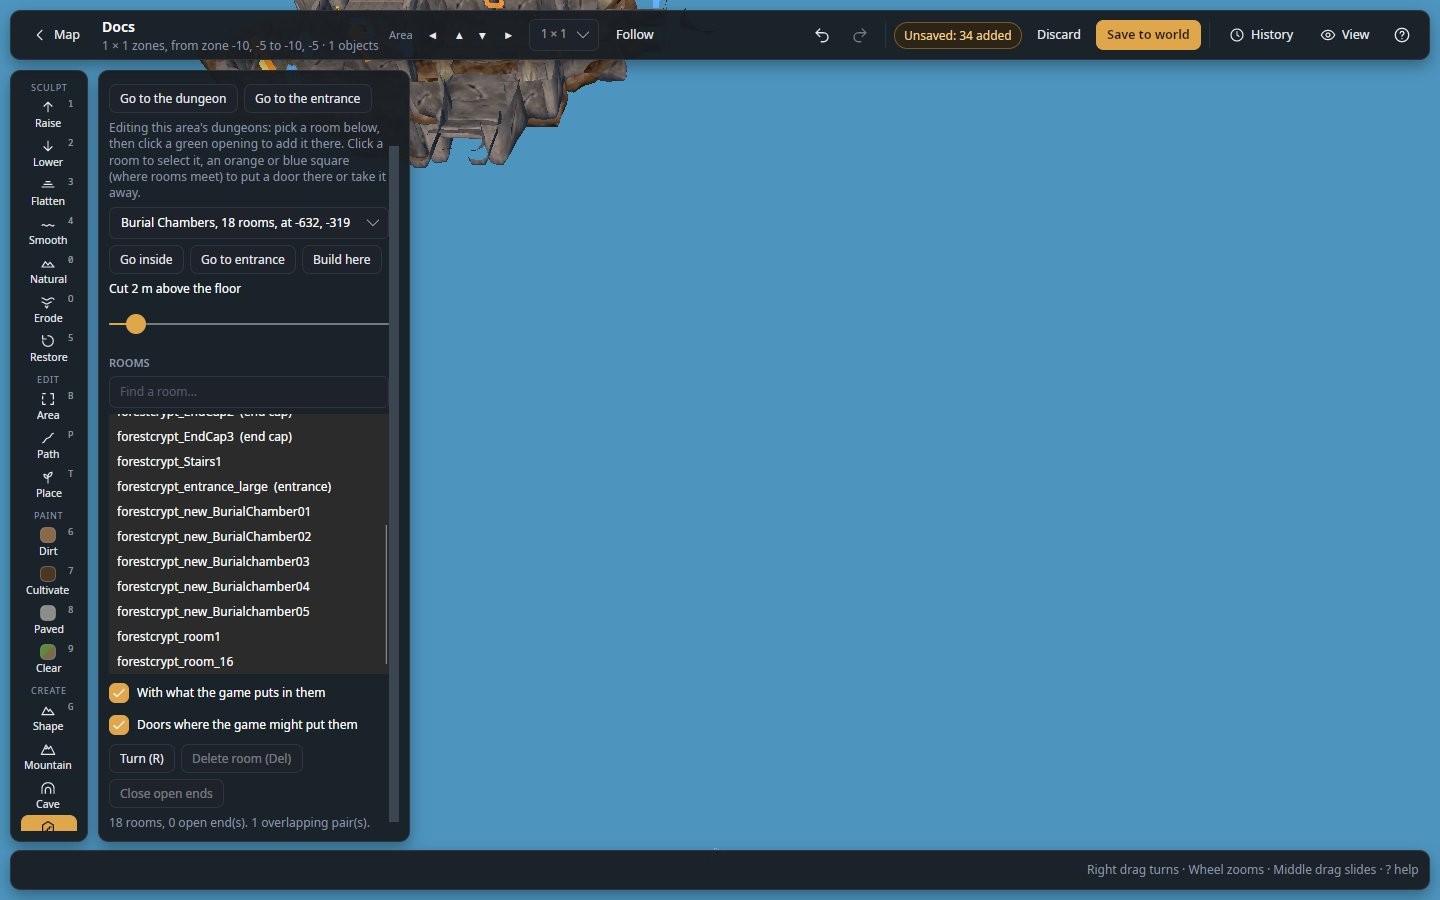
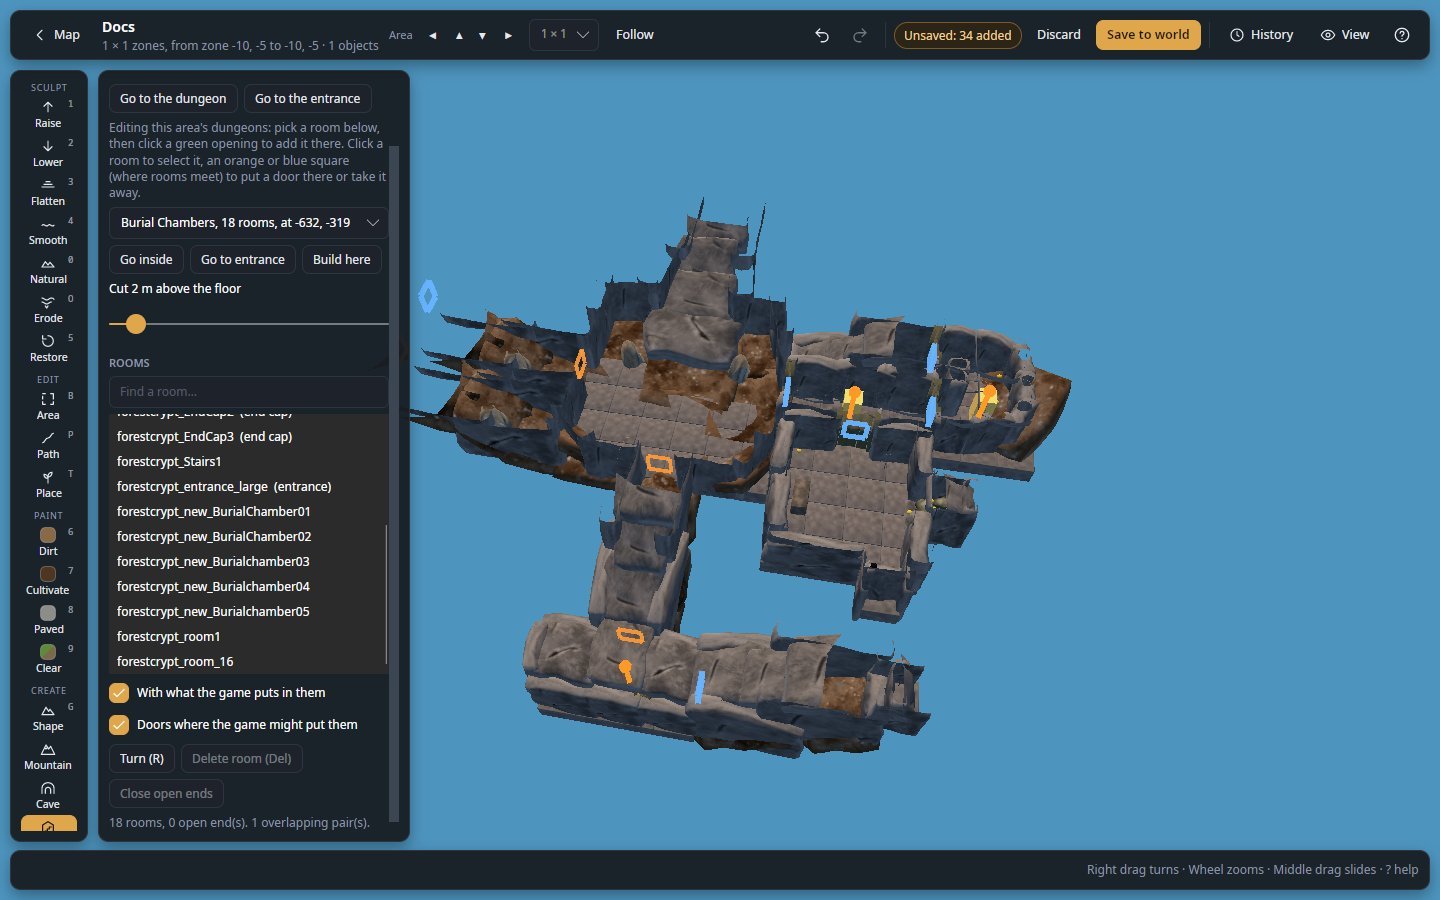
Frame the dungeon-rooms picture on the dungeon itself
A fixed camera missed the dungeon, whose rooms land elsewhere each layout; Go inside frames them, the wheel brings it closer, and the pointer leaves the rooms so none shows as hovered.

diff --git a/tools/DocsScreenshots/Editor.cs b/tools/DocsScreenshots/Editor.cs
@@ -277,6 +277,25 @@ public sealed class Editor : IDisposable
         Send("wait 300");
     }
 
+    /// <summary>
+    /// Moves the pointer onto a point of the window (pixels from its top left), so what it hovered (a room, a piece)
+    /// is no longer marked. Does nothing without xdotool.
+    /// </summary>
+    /// <param name="x">Pixels from the window's left.</param>
+    /// <param name="y">Pixels from the window's top.</param>
+    public void Point(int x, int y)
+    {
+        string? window = Xdotool("search", "--onlyvisible", "--pid", _p.Id.ToString(System.Globalization.CultureInfo.InvariantCulture))?
+            .Split('\n', StringSplitOptions.RemoveEmptyEntries).LastOrDefault();
+        if (window == null)
+        {
+            return;
+        }
+        var inv = System.Globalization.CultureInfo.InvariantCulture;
+        Xdotool("mousemove", "--window", window, x.ToString(inv), y.ToString(inv));
+        Send("wait 300");
+    }
+
     /// <summary>Runs xdotool with these arguments; its output, or null when it is missing or fails.</summary>
     private static string? Xdotool(params string[] args)
     {

diff --git a/tools/DocsScreenshots/Scenes.Building.cs b/tools/DocsScreenshots/Scenes.Building.cs
@@ -112,8 +112,14 @@ public sealed partial class Scenes
         e.Send("click Go to the dungeon");
         e.Send("wait 3000");
         e.Scroll(250, 600, 30);
+        // Go inside frames the dungeon's rooms (wherever its layout put them) and cuts their roofs at 4 m.
+        e.Send("click Go inside");
+        e.Send("wait 1500");
         e.Send("set Cut 4 m above the floor|2");
-        e.Send($"camera {Cx - 12} {Cz} 200 62 80 5002");
+        // Closer, with the wheel over the rooms in the middle of the view (Go inside frames them from afar).
+        e.Scroll(730, 470, -4);
+        // Off the rooms (onto the sky), so none is marked as hovered.
+        e.Point(1300, 150);
         e.Send("wait 1500");
         e.Shot(Out("dungeon-rooms.jpg"));
     }

diff --git a/docs/dungeons.md b/docs/dungeons.md
@@ -1,7 +1,7 @@
 # Dungeons
 
 ![A Burial Chambers dungeon of the game's own rooms, cut open, with the Dungeon panel's room editing](images/dungeon-rooms.jpg)
-*A dungeon of the game's own rooms (Burial Chambers, 23 rooms), 5000 m up and cut 2 m above the floor. Orange and
+*A dungeon of the game's own rooms (Burial Chambers, 18 rooms), 5000 m up and cut 2 m above the floor. Orange and
 blue squares mark where rooms meet (a door, or a doorway the game may fill); the panel lists the area's dungeon, the
 cut, the rooms to add, and **Turn (R)**, **Delete room (Del)** and **Close open ends**.*
 
